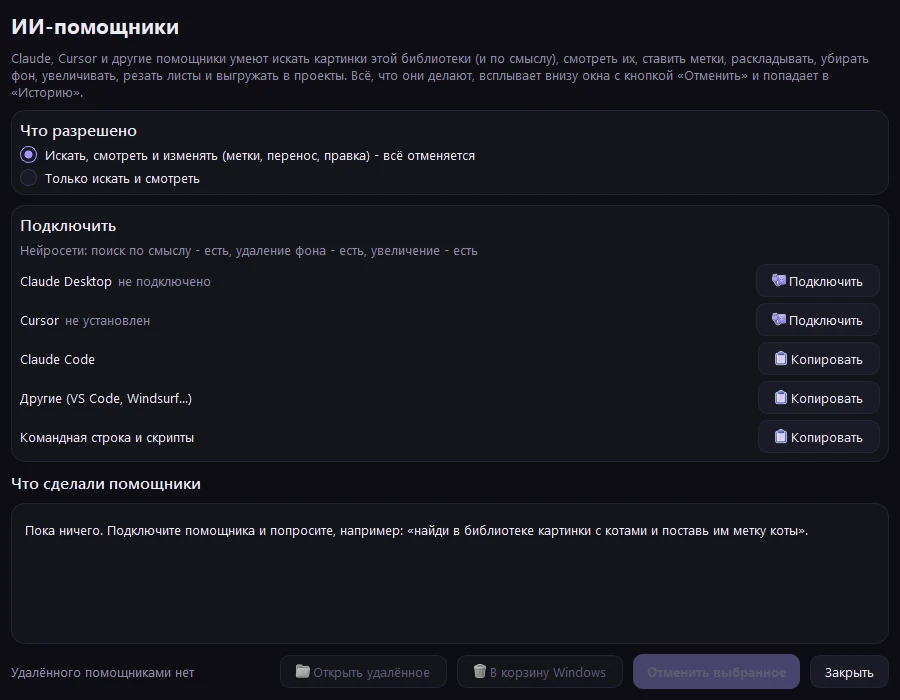
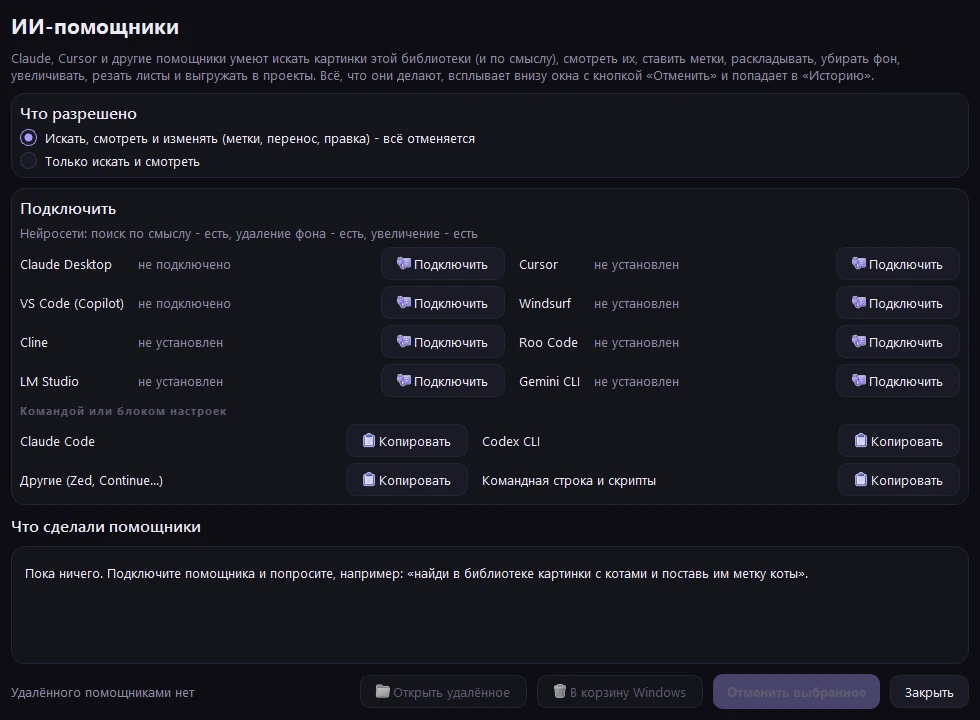
README и AGENTS.md: новые помощники, снимок окна «ИИ-помощники»

diff --git a/README.md b/README.md
@@ -285,8 +285,9 @@ Claude, Cursor и другие помощники работают с библи
 котами и поставь им метку коты», «убери фон у этих трёх и положи копии в 02 Наклейки/Котики»,
 «нарежь лист из входящих», «выгрузи иконки космоса в D:/site/assets в webp 128».
 
-**Подключить** - кнопка «ИИ-помощники» вверху окна: Claude Desktop и Cursor одной кнопкой, для Claude
-Code и остальных - скопировать команду или блок настроек. В этой папке Claude Code находит сервер сам
+**Подключить** - кнопка «ИИ-помощники» вверху окна: Claude Desktop, Cursor, VS Code (Copilot), Windsurf, Cline, Roo Code, LM Studio и Gemini CLI - одной кнопкой
+(сервер дописывается в их файл настроек, старый остаётся копией `.bak`); для Claude Code и Codex CLI -
+готовая команда, для остальных (Zed, Continue...) - блок настроек. В этой папке Claude Code находит сервер сам
 (`.mcp.json`). Без MCP - те же операции из командной строки: `py -3.14 _tools/cli.py api`.
 
 | Что | Операции |
@@ -306,7 +307,7 @@ Code и остальных - скопировать команду или бло
 только поиск и просмотр. Как помощнику вести себя с библиотекой - в [AGENTS.md](AGENTS.md).
 
 <div align="center">
-<img src="_docs/screenshots/agents.webp" alt="Окно «ИИ-помощники»: что разрешено, подключение Claude Desktop, Cursor и Claude Code, список действий помощников" width="560">
+<img src="_docs/screenshots/agents.webp" alt="Окно «ИИ-помощники»: что разрешено, восемь помощников с кнопкой «Подключить» в две колонки, команды для Claude Code и Codex CLI, список действий помощников" width="640">
 <br><sub>Окно «ИИ-помощники»: подключение, права и всё, что помощники сделали</sub>
 </div>
 
@@ -374,7 +375,7 @@ py -3.14 _tools/cli.py api search '{"query": "уютная ночная улиц
 Окно считает векторы новых картинок. Поиск заработает, когда счётчик дойдёт до конца.
 
 **Помощник не видит библиотеку.**
-Окно «ИИ-помощники» показывает, подключён ли Claude Desktop и Cursor; после подключения клиента его нужно
+Окно «ИИ-помощники» показывает, какие помощники установлены и подключены; после подключения клиента его нужно
 перезапустить. Проверить сервер без помощника: `py -3.14 _tools/cli.py api overview`.
 
 **Помощник сделал не то.**

diff --git a/README.en.md b/README.en.md
@@ -163,8 +163,9 @@ Claude, Cursor and other assistants use the library as a tool: "find stickers wi
 "remove the background from these three and put copies into 02 Наклейки/Котики", "cut the sheet in the inbox",
 "export the space icons to D:/site/assets as 128 px webp".
 
-**Connect** with the "ИИ-помощники" button at the top of the window: Claude Desktop and Cursor in one click,
-a ready command or config block for Claude Code and others. In this folder Claude Code finds the server via
+**Connect** with the "ИИ-помощники" button at the top of the window: Claude Desktop, Cursor, VS Code (Copilot),
+Windsurf, Cline, Roo Code, LM Studio and Gemini CLI in one click (the server is added to their config, the old
+file is kept as `.bak`); a ready command for Claude Code and Codex CLI, a config block for the rest. In this folder Claude Code finds the server via
 `.mcp.json`. Without MCP the same operations are available from the shell: `py -3.14 _tools/cli.py api`.
 
 | What | Tools |
@@ -184,7 +185,7 @@ replaced originals go to `_sources/edit <date>`. Assistants can be limited to se
 Guidance for assistants: [AGENTS.md](AGENTS.md).
 
 <div align="center">
-<img src="_docs/screenshots/agents.webp" alt="AI assistants window: permissions, connecting Claude Desktop, Cursor and Claude Code, list of assistant actions" width="560">
+<img src="_docs/screenshots/agents.webp" alt="AI assistants window: permissions, eight assistants with a Connect button in two columns, commands for Claude Code and Codex CLI, list of assistant actions" width="640">
 </div>
 
 ---

diff --git a/AGENTS.md b/AGENTS.md
@@ -13,7 +13,7 @@
 
 | Вход | Как |
 |---|---|
-| **MCP** (Claude Code, Claude Desktop, Cursor, VS Code) | сервер `_tools/mcp_server.py`; в этой папке он уже прописан в `.mcp.json` |
+| **MCP** (Claude Code, Claude Desktop, Cursor, VS Code, Windsurf, Cline, Gemini CLI, Codex...) | сервер `_tools/mcp_server.py`; в этой папке он уже прописан в `.mcp.json` |
 | **Командная строка** | `py -3.14 _tools/cli.py api` - список; `py -3.14 _tools/cli.py api search '{"query": "ночной город"}'` |
 
 Картинка в ответе (`view`, `edit` с `mode=preview`, `cut_sheet` с `preview=true`) приходит изображением по MCP
